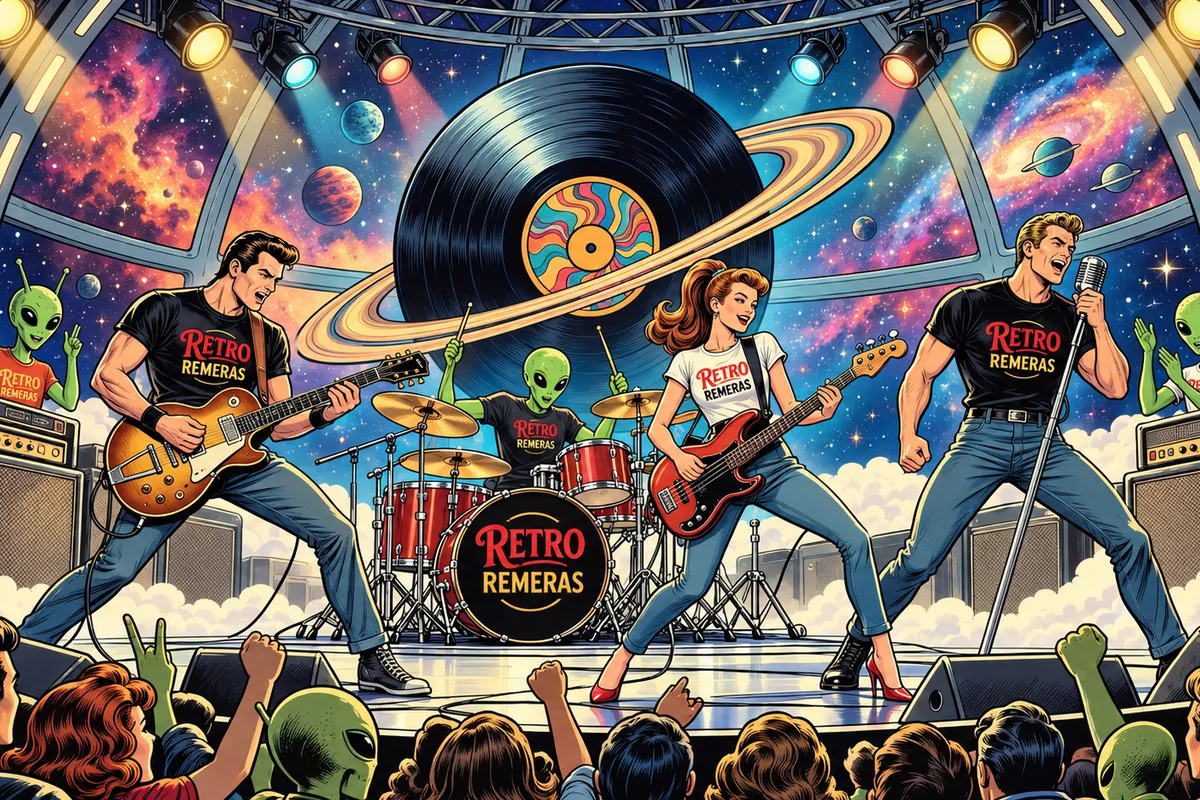
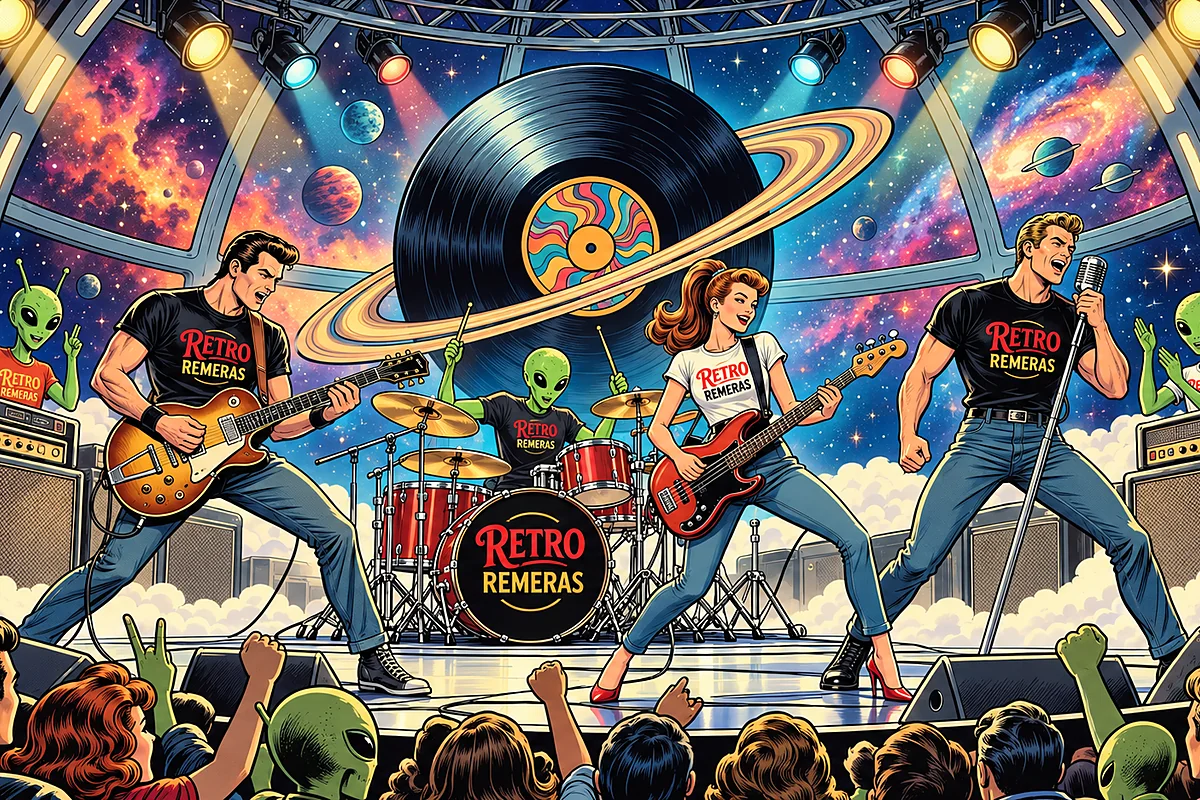
Categorías: ilustraciones más nítidas y vivas, títulos con borde
Claude-Session: https://claude.ai/code/session_01A7k4dU187yWgtd1AUApKC7

diff --git a/app/css/categories-marquee.css b/app/css/categories-marquee.css
@@ -103,3 +103,35 @@
     animation: none !important;
   }
 }
+
+/* ---------- Tarjetas con ilustración ----------
+   Imagen más viva (antes un velo oscuro la apagaba) y un velo solo arriba a
+   la izquierda, detrás del texto. Título y descripción con borde oscuro para
+   que se lean sobre cualquier ilustración. */
+.cat-marquee .category-card::before,
+.cat-marquee .category-card img {
+  filter: brightness(1.03) contrast(1.06) saturate(1.1) !important;
+}
+
+.cat-marquee .category-card::after {
+  background:
+    radial-gradient(120% 75% at 0% 0%, rgba(8, 5, 3, 0.78) 0%, rgba(8, 5, 3, 0.45) 40%, rgba(8, 5, 3, 0) 64%),
+    linear-gradient(180deg, rgba(8, 5, 3, 0) 55%, rgba(8, 5, 3, 0.45) 100%) !important;
+}
+
+.cat-marquee .category-card h3 {
+  -webkit-text-stroke: 5px #140c06;
+  paint-order: stroke fill;
+  text-shadow: 3px 3px 0 #0b0704, 0 6px 18px rgba(0, 0, 0, 0.55) !important;
+}
+
+.cat-marquee .category-card p {
+  color: #fff6dd !important;
+  text-shadow:
+    -1px -1px 0 #140c06,
+    1px -1px 0 #140c06,
+    -1px 1px 0 #140c06,
+    1px 1px 0 #140c06,
+    0 2px 0 #140c06,
+    0 4px 12px rgba(0, 0, 0, 0.7) !important;
+}
